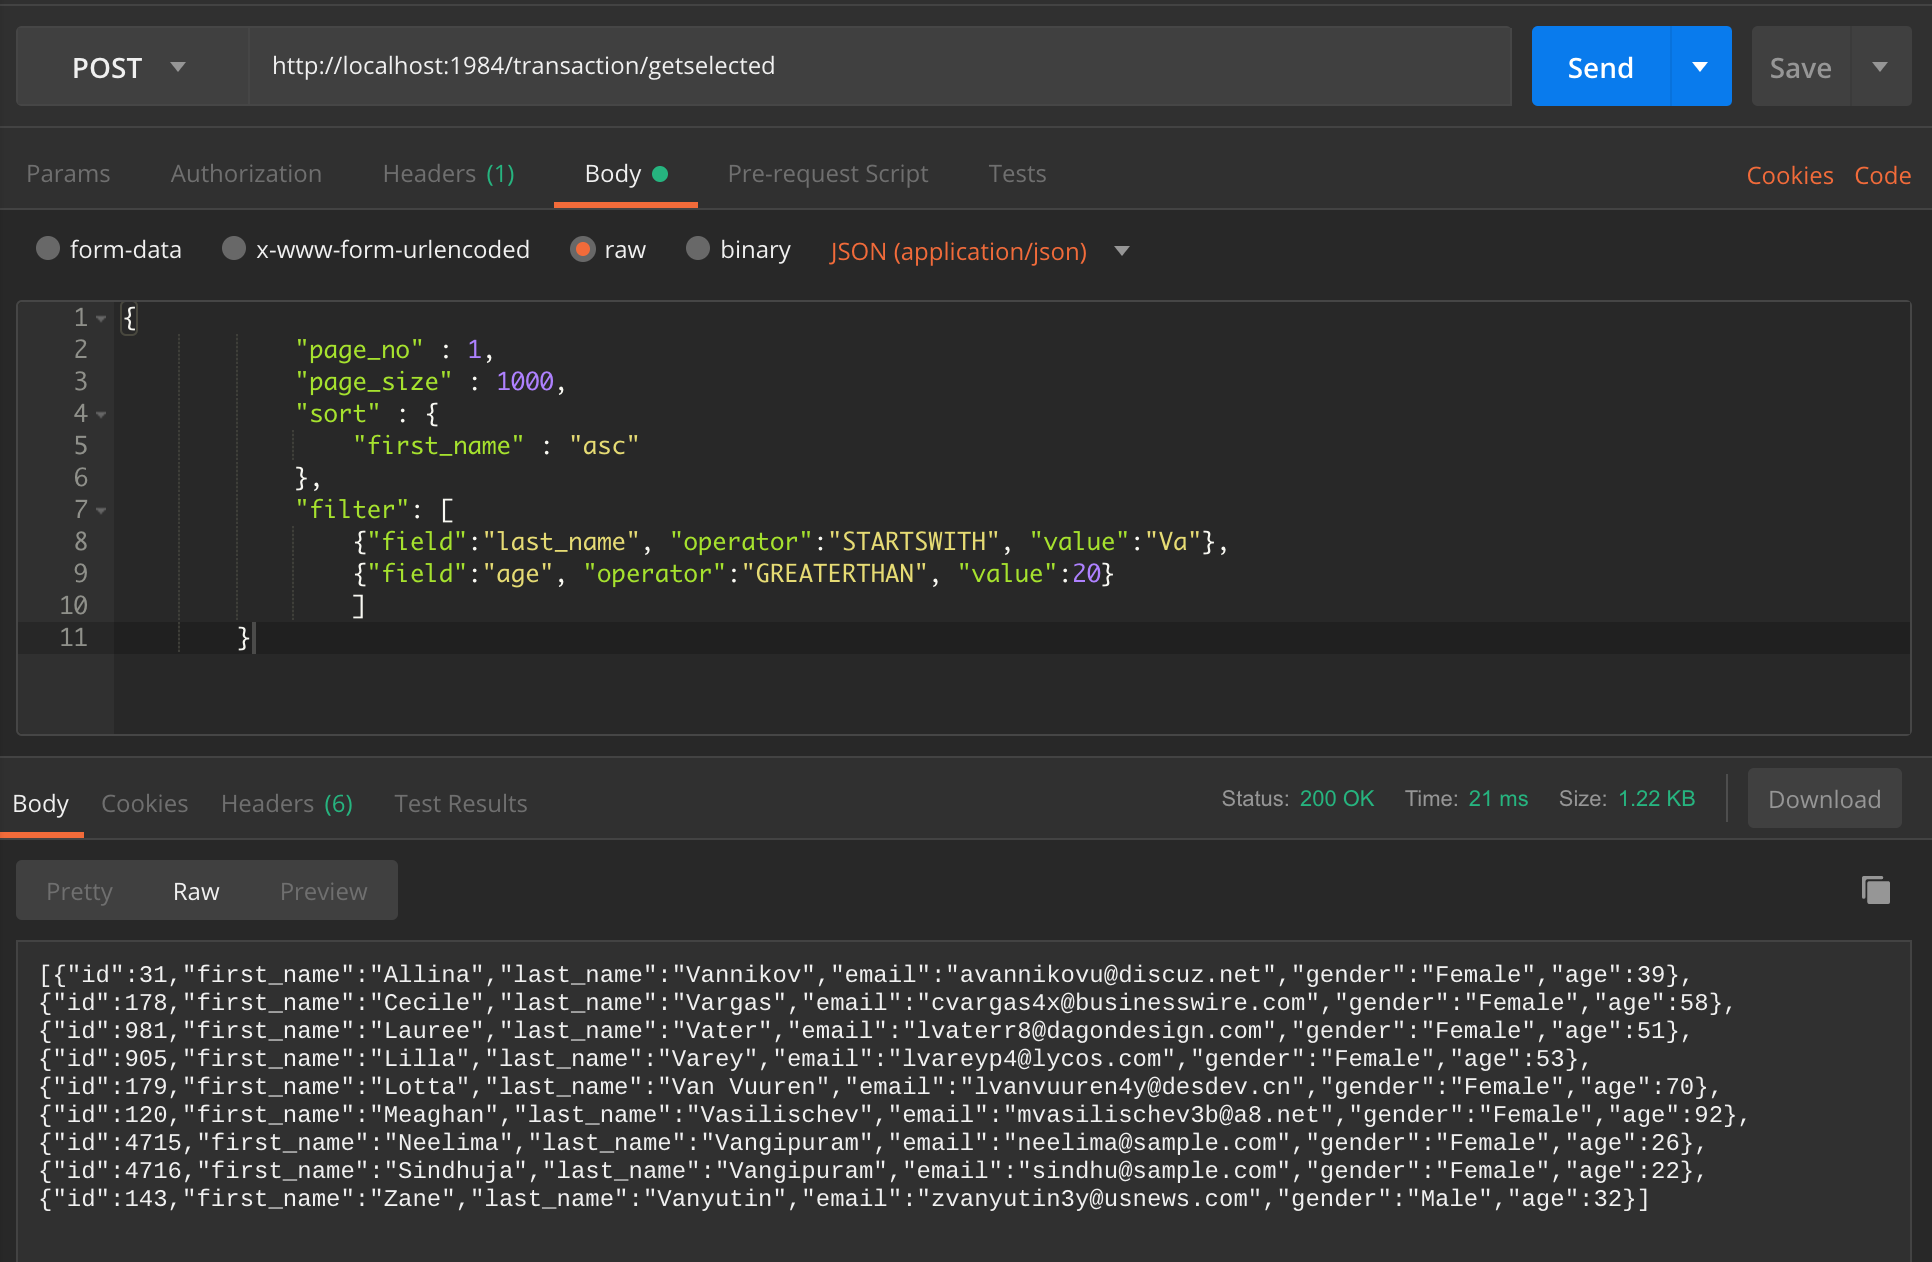
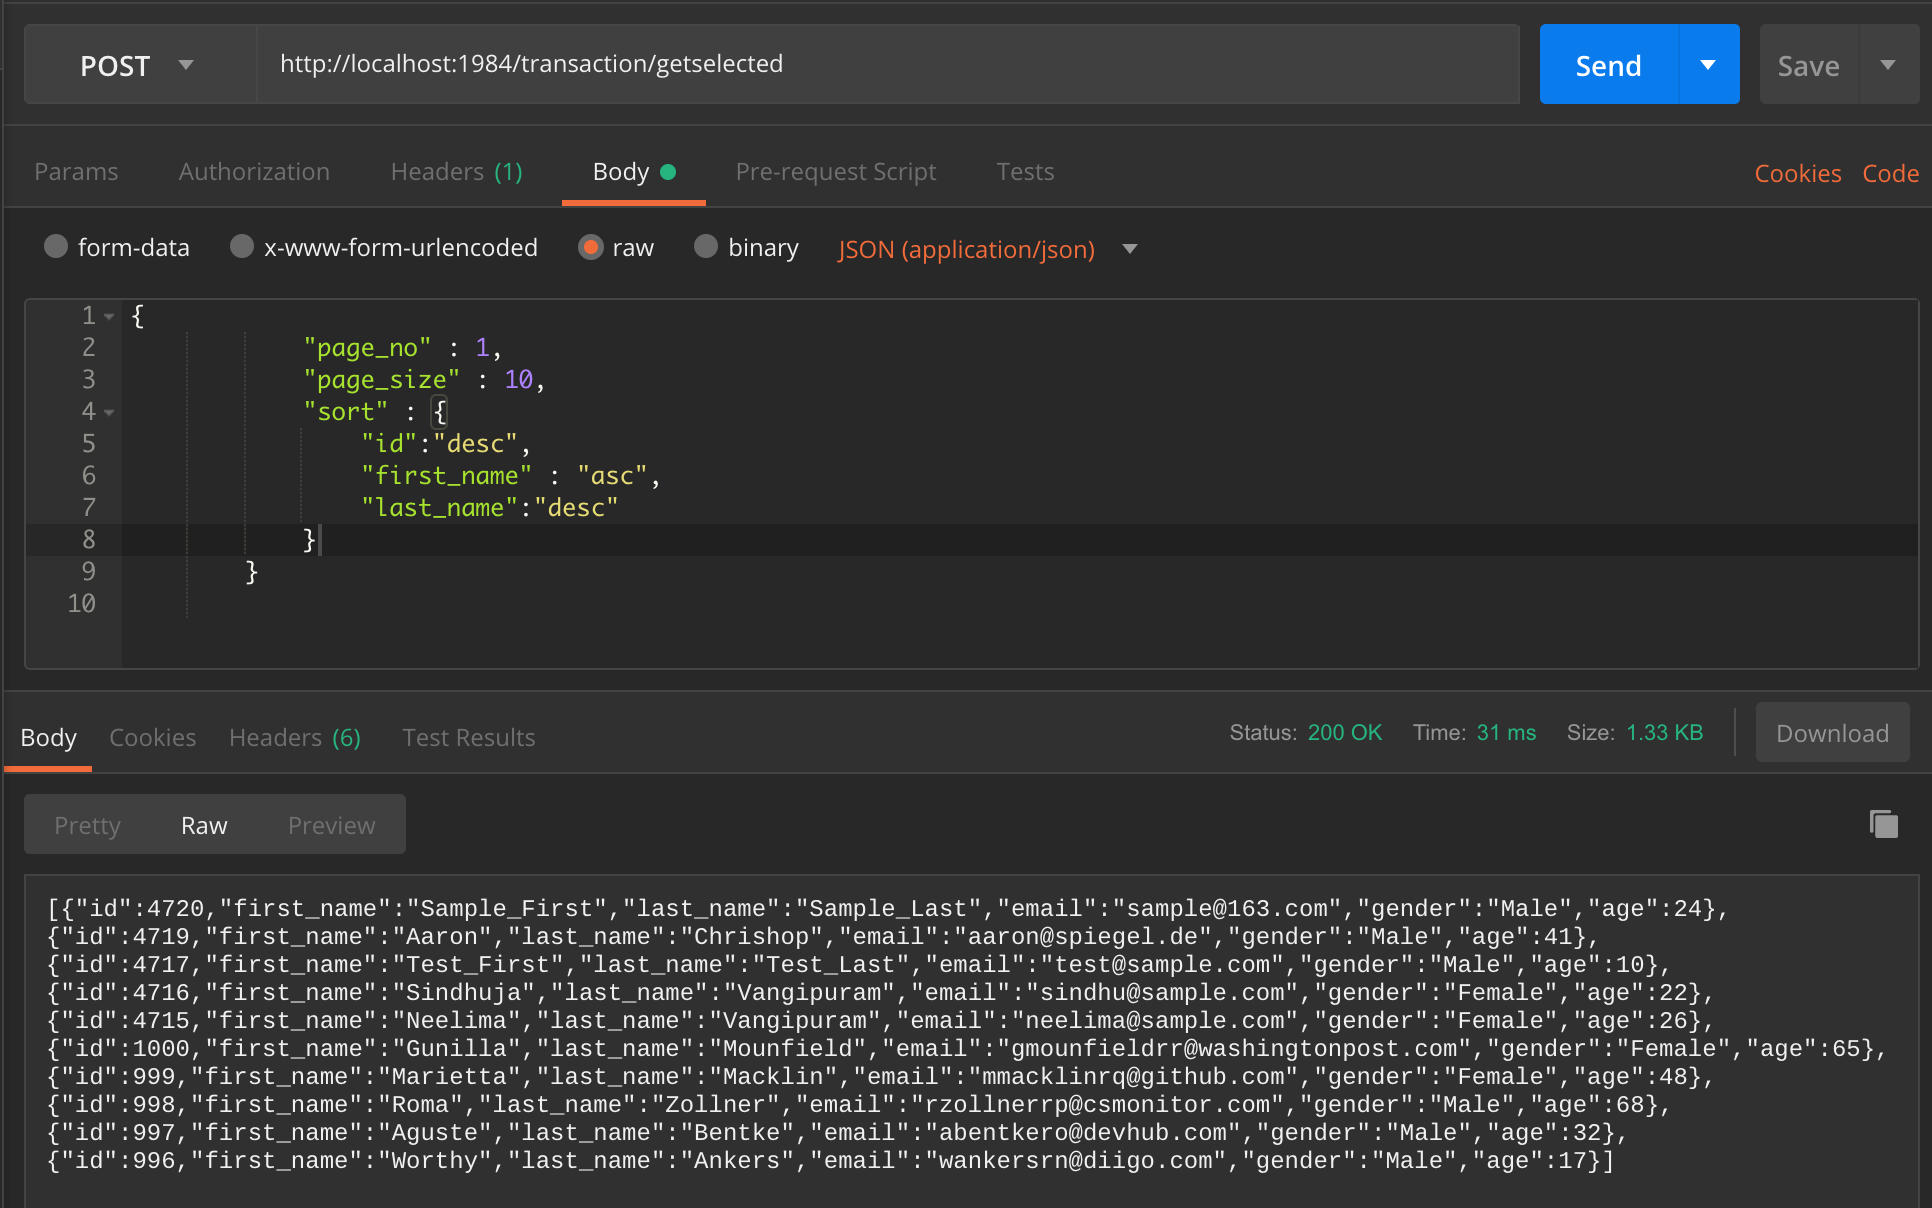
Changed output screenshot

diff --git a/README.md b/README.md
@@ -18,9 +18,11 @@
          ```
         {
             "page_no" : 1,
-            "page_size" : 1000,
+            "page_size" : 10,
             "sort" : {
-                "first_name" : "asc"
+                "id":"desc",
+                "first_name" : "asc",
+                "last_name":"desc",
             },
             "filter": [
                 {"field":"last_name", "operator":"CONTAINS", "value":"Van"},
@@ -39,5 +41,5 @@
 ###### Output Screenshots
 | | | |
 |:-------------------------:|:-------------------------:|:-------------------------:|
-|<img width="1604" src="https://github.com/neelimavangipuram/Server-side-Pagination/blob/master/images/getalldocs.png">  Get All Users' Data |  <img width="1604" src="https://github.com/neelimavangipuram/Server-side-Pagination/blob/master/images/pagination.png"> Pagination |<img width="1604" src="https://github.com/neelimavangipuram/Server-side-Pagination/blob/master/images/adddoc.png"> Add New Record |
+|<img width="1604" src="https://github.com/neelimavangipuram/Server-side-Pagination/blob/master/images/getalldocs.png">  Get All Users' Data |  <img width="1604" src="https://github.com/neelimavangipuram/Server-side-Pagination/blob/master/images/pagination.png"> Filtering |<img width="1604" src="https://github.com/neelimavangipuram/Server-side-Pagination/blob/master/images/adddoc.png"> Add New Record |
 |<img width="1604" src="https://github.com/neelimavangipuram/Server-side-Pagination/blob/master/images/newrecord.png"> JSON file |  <img width="1604" src="https://github.com/neelimavangipuram/Server-side-Pagination/blob/master/images/recordexists.png"> Record Exists |<img width="1604" src="https://github.com/neelimavangipuram/Server-side-Pagination/blob/master/images/getdocid.png"> Get Record by ID |
